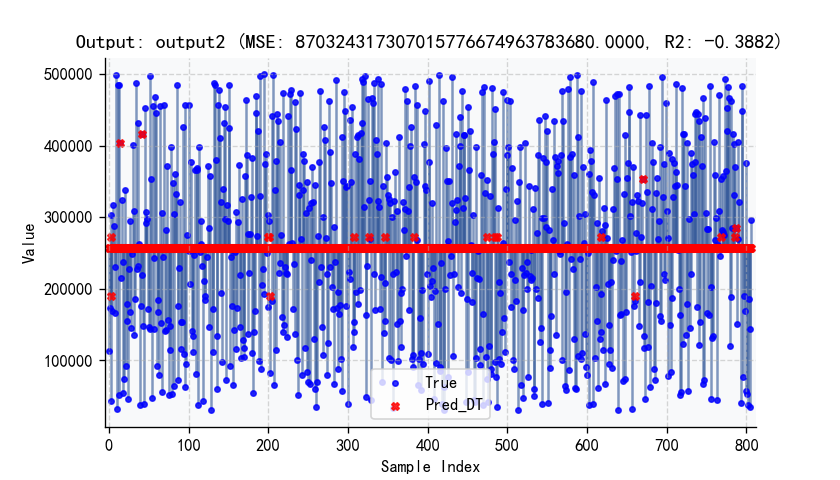
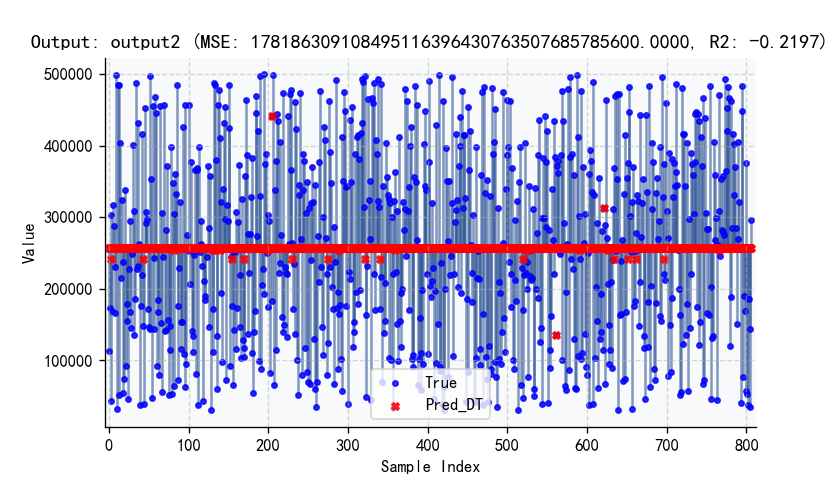
今天运用带符号的数据集变换解决了第12列数据爆炸的问题，然后下一步就是调试通MMoE模型，之后在修改评价指标体系等等，还有就是预加载模型框如何直接调用，不走训练。

diff --git a/ALL_Algorithms/Algorithms.py b/ALL_Algorithms/Algorithms.py
@@ -23,6 +23,14 @@ from tqdm import tqdm
 import shutil
 import joblib
 
+#带有符号的对数变换
+def signed_log1p(arr):
+    arr = np.asarray(arr, dtype=np.float64)  # 强制转为 numpy 数组
+    return np.sign(arr) * np.log1p(np.abs(arr))
+
+def signed_expm1(arr):
+    arr = np.asarray(arr, dtype=np.float64)  # 强制转为 numpy 数组
+    return np.sign(arr) * np.expm1(np.abs(arr))
 
 
 def multi_task_regression_predictor(
@@ -66,7 +74,17 @@ def multi_task_regression_predictor(
     y_train = data_train[output_columns].values
     X_test = data_test[input_columns].values
     y_test = data_test[output_columns].values
-
+    
+    # 找到 output12 的列索引
+    if 'output12' in output_columns:
+        idx = output_columns.index('output12')
+        if y_train.ndim == 1:
+            y_train = signed_log1p(y_train)
+            y_test = signed_log1p(y_test)
+        else:
+            y_train[:, idx] = signed_log1p(y_train[:, idx])
+            y_test[:, idx] = signed_log1p(y_test[:, idx])
+        
     scaler = None    # 特征标准化(返回scaler用于后续预测)
   
     if scale_features:
@@ -123,23 +141,43 @@ def multi_task_regression_predictor(
     else:
         y_pred = model.predict(X_test)  
     
-    # 关键：强制转换为float64类型，确保np.isnan可处理
-    y_test = np.asarray(y_test, dtype=np.float64)
-    y_pred = np.asarray(y_pred, dtype=np.float64)
+
     
-
- 
-
-    print("y_test 包含NaN:", np.isnan(y_test).any())
-    print("y_test 包含无穷大:", np.isinf(y_test).any())
-    print("y_pred 包含NaN:", np.isnan(y_pred).any())
-    print("y_pred 包含无穷大:", np.isinf(y_pred).any())  
+    # # 关键：强制转换为float64类型，确保np.isnan可处理
+    # y_test = np.asarray(y_test, dtype=np.float64)
+    # y_pred = np.asarray(y_pred, dtype=np.float64)
+    # print("y_test 包含NaN:", np.isnan(y_test).any())
+    # print("y_test 包含无穷大:", np.isinf(y_test).any())
+    # print("y_pred 包含NaN:", np.isnan(y_pred).any())
+    # print("y_pred 包含无穷大:", np.isinf(y_pred).any())  
+    
+    # if 'output12' in output_columns:
+    #     idx = output_columns.index('output12')
+    #     # 兼容一维和二维
+    #     if y_pred.ndim == 1:
+    #         y_pred = signed_expm1(y_pred)
+    #         y_test = signed_expm1(y_test)
+    #     else:
+    #         y_pred[:, idx] = signed_expm1(y_pred[:, idx])
+    #         y_test[:, idx] = signed_expm1(y_test[:, idx])
     
     # 计算指标
     mse = mean_squared_error(y_test, y_pred, multioutput='uniform_average')
     r2 = r2_score(y_test, y_pred, multioutput='uniform_average')
     metrics = {'MSE': mse, 'R2': r2}
- 
+    
+    #现在是这么个情况就是：目前进行带符号的对数变换，能够跑通，但是评估后如果还原会出现无穷大的值。这个会报错，图也画不出来，各项指标也不行。
+    # 所以目前就这样解决的，希望后期能有更好的解决方法，至少程序可以跑通了
+    # if 'output12' in output_columns:
+    #     idx = output_columns.index('output12')
+    #     # 兼容一维和二维
+    #     if y_pred.ndim == 1:
+    #         y_pred = signed_expm1(y_pred)
+    #         y_test = signed_expm1(y_test)
+    #     else:
+    #         y_pred[:, idx] = signed_expm1(y_pred[:, idx])
+    #         y_test[:, idx] = signed_expm1(y_test[:, idx])
+    
     return model, scaler, y_test, y_pred, metrics
 
 def ask_and_save_model(parent, model, default_name="model.pkl"):
@@ -243,7 +281,11 @@ def load_model(model_path, model_type=None):
     except Exception as e:
         print(f"加载模型时出错: {str(e)}")
         return None
-    
+#过滤异常值
+def filter_extreme(arr, threshold=1e10):
+    arr = np.asarray(arr, dtype=np.float64)
+    mask = np.isfinite(arr) & (np.abs(arr) < threshold)
+    return arr[mask], mask
 
 #单输出画图可视化函数
 def single_plot_and_evaluate(self, y_test, y_pred, method, data_test, 
@@ -259,6 +301,7 @@ def single_plot_and_evaluate(self, y_test, y_pred, method, data_test,
     :param N_start_test: 测试集起始索引
     :param N_end_test: 测试集结束索引
     """
+    
     self.end_time = time.time()
     print(f"运行时间: {self.end_time - self.start_time:.2f} 秒")
 
